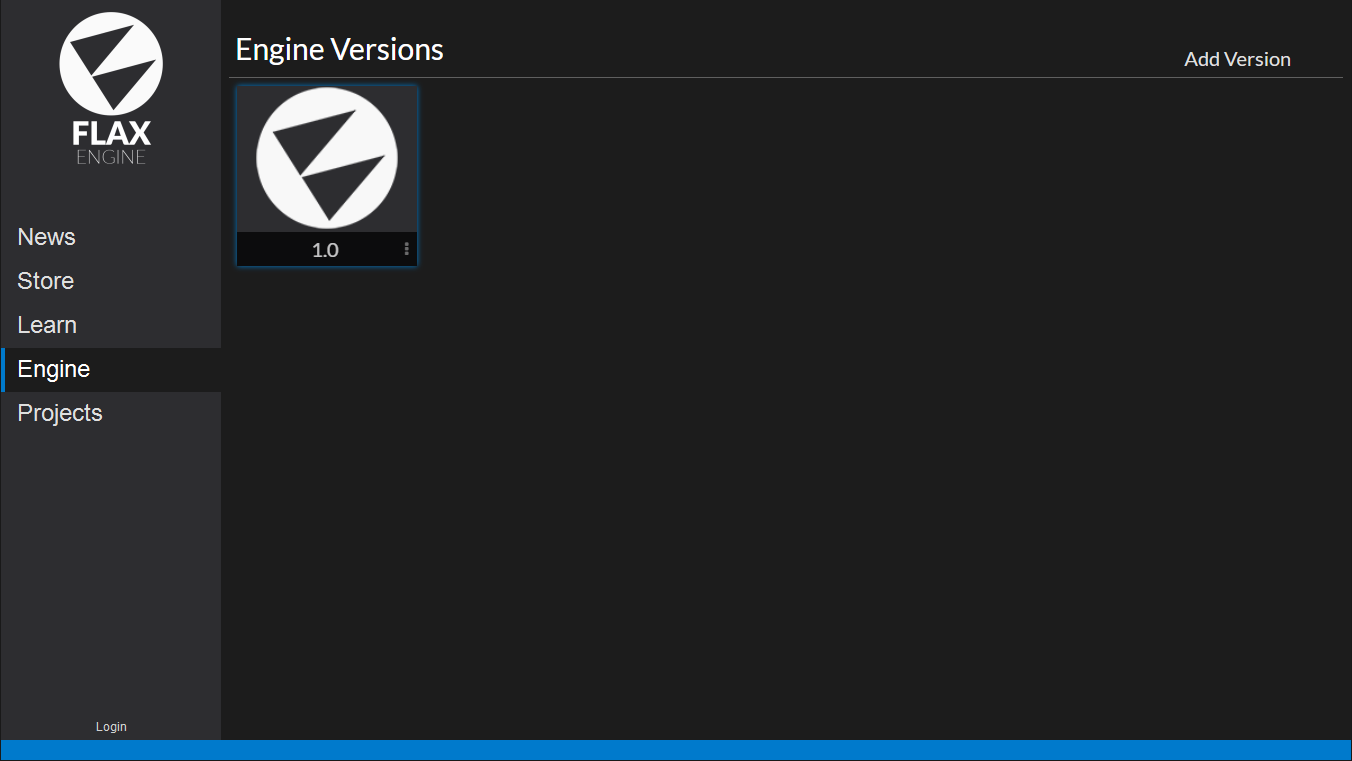
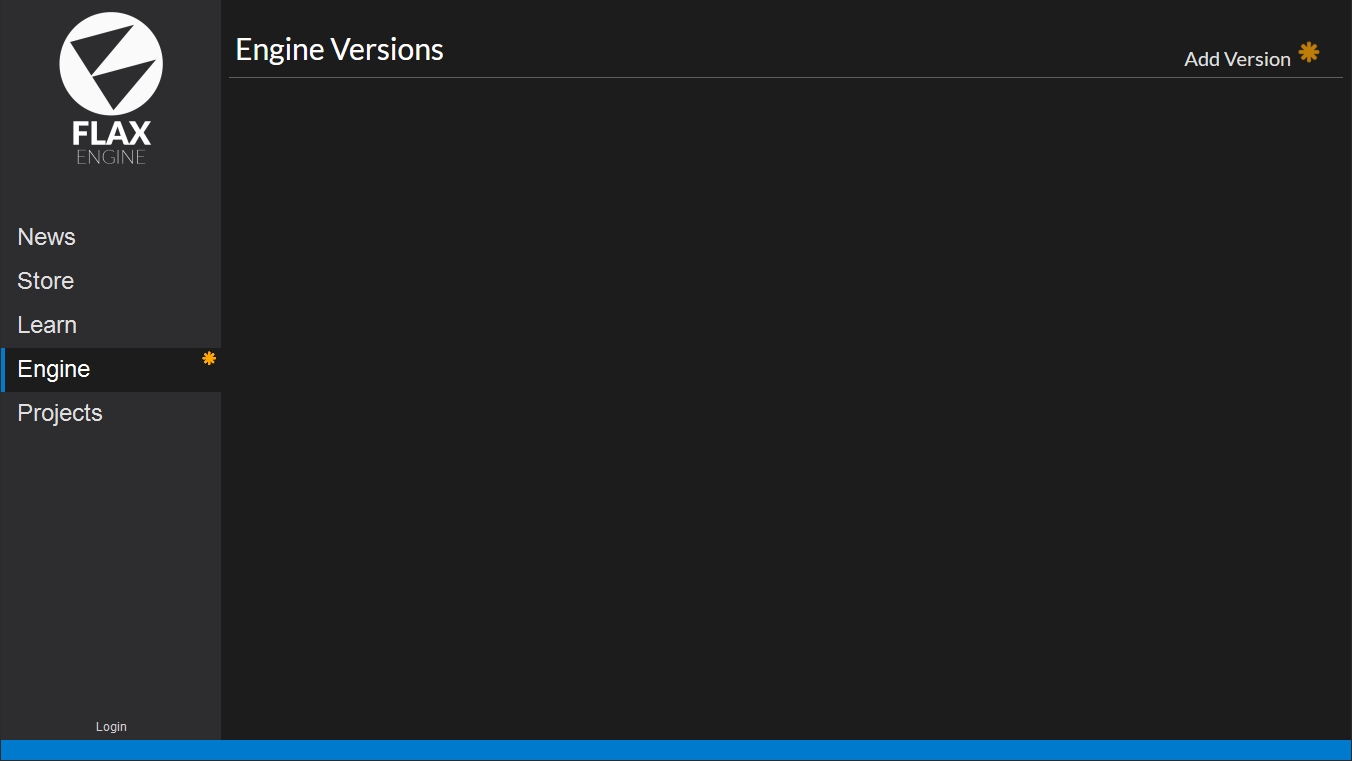
Update get-flax.md - Updated screenshots
Updated screenshots to reflect current launcher menus and text. Omitted title bar for aesthetics.

Changed region(s): [[0.1864, 0.0907, 0.3107, 0.3022], [0.1864, 0.3022, 0.3107, 0.3627], [0.963, 0.0604, 0.9941, 0.0907]]

diff --git a/manual/get-started/get-flax.md b/manual/get-started/get-flax.md
@@ -23,7 +23,7 @@ After the login screen go to the **Engine** page. This is where you can download
 > [!Note]
 > The engine version with a blue outline is marked as default to open projects. Use the context menu on it (3 dots) to set another version as default or to modify it's properties.
 
-![Download Flax](media/download-flax.jpg)
+![Download Flax](media/download-flax.png)
 
 From now on you are ready to create great games and experiences. We can't wait to see what great things you're going to create with Flax! Start by creating your [project](create-a-project.md).
 
